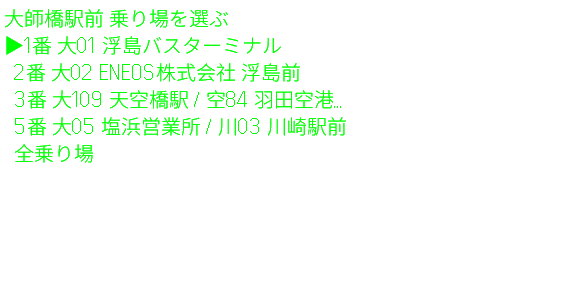
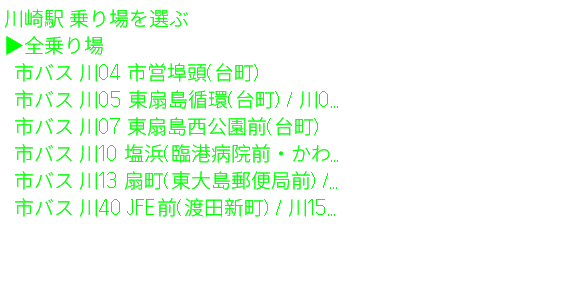
G2 0.2.0 審査用: スクリーンショット撮り直し・掲載文・ポリシー更新
- スクリーンショット 5 枚を 0.2.0 の画面で撮り直し（川崎駅・全乗り場、両社まとめ）
- docs/store-description.md: About（日英 1631 文字）・Tags・Category
- プライバシーポリシー: 0.2.0 は選んだバス停の番号を中継に送る（位置情報は送らない）
- 「データについて」: まとめたバス停で両社の時刻表の版を出す（8 文字で切ると片方しか出なかった）
- dev: ?lat=&lng= で現在地、?fresh=1 で再開しない（シミュレータでの撮影用）

diff --git a/app/src/main.ts b/app/src/main.ts
@@ -37,7 +37,7 @@ import {
 import { buildApproachScene, DEFAULT_APPROACH_LAYOUT, MODEL_LOOK_RIGHT_DEG, type ApproachScene } from '../../src/core/approach.js';
 import { Bitmap } from '../../src/core/bitmap.js';
 import { buildBoard, type BoardEntry } from '../../src/core/board.js';
-import { formatAge, formatCountdown, formatMeters } from '../../src/core/format.js';
+import { formatAge, formatCountdown, formatMeters, versionText } from '../../src/core/format.js';
 import type { LatLng } from '../../src/core/geodesy.js';
 import type { RtSnapshot } from '../../src/core/realtime.js';
 import { renderApproach, splitHalves } from '../../src/core/render.js';
@@ -243,7 +243,7 @@ function aboutText(): string {
     'データについて（タップで戻る）',
     '公共交通オープンデータセンター提供',
     source.agency,
-    `時刻表 ${source.feedVersion.slice(0, 8)}版 取得${source.fetchedDate}`,
+    `時刻表 ${versionText(source.feedVersion)}版 取得${source.fetchedDate}`,
     'データの正確性・完全性は保証されません',
     '道路は右60°に置いた模式図です',
     '問い合わせ:',
@@ -589,7 +589,15 @@ async function main(): Promise<void> {
     host = { get: (key) => bridge!.getLocalStorage(key), set: (key, value) => bridge!.setLocalStorage(key, value) };
   }
 
-  const resumed = await resume();
+  // ブラウザ・シミュレータには位置情報が無いので、?lat=&lng= で現在地を渡せる（G2 Sky View と同じ）。
+  // 審査用のスクリーンショットを、実際の利用場面（川崎駅の近く）で撮るため。
+  const params = new URLSearchParams(globalThis.location?.search ?? '');
+  const urlLat = Number(params.get('lat'));
+  const urlLng = Number(params.get('lng'));
+  const fromUrl = Number.isFinite(urlLat) && Number.isFinite(urlLng) && urlLat !== 0 && urlLng !== 0;
+  if (fromUrl) location = { lat: urlLat, lng: urlLng };
+
+  const resumed = params.get('fresh') === '1' ? false : await resume();
   if (resumed) {
     page = 'main';
     await poll(true);
@@ -598,11 +606,13 @@ async function main(): Promise<void> {
     const result = await bridge.createStartUpPageContainer(new CreateStartUpPageContainer(containersFor(page)));
     if (result !== StartUpPageCreateResult.success) console.warn('page create', StartUpPageCreateResult[result] ?? result);
     bridge.onEvenHubEvent((event) => void handleEvent(event));
-    try {
-      const fix = await bridge.getAppLocation({ accuracy: AppLocationAccuracy.High, timeoutMs: 10_000 });
-      if (fix) location = { lat: fix.latitude, lng: fix.longitude };
-    } catch (error) {
-      console.warn('location failed', error);
+    if (!fromUrl) {
+      try {
+        const fix = await bridge.getAppLocation({ accuracy: AppLocationAccuracy.High, timeoutMs: 10_000 });
+        if (fix) location = { lat: fix.latitude, lng: fix.longitude };
+      } catch (error) {
+        console.warn('location failed', error);
+      }
     }
   }
   await render();

diff --git a/test/core.test.ts b/test/core.test.ts
@@ -9,6 +9,7 @@ import { activeServices, clock, jstDay, upcomingDepartures } from '../src/core/s
 import type { StopData } from '../src/core/stopdata.js';
 import { platformChoices } from '../src/core/stops.js';
 import { fitText, INFO_MAX_LINES } from '../src/core/textfit.js';
+import { versionText } from '../src/core/format.js';
 
 const data = JSON.parse(readFileSync('data/stops/rinko/5010.json', 'utf8')) as StopData;
 const jst = (s: string) => new Date(`${s}+09:00`).getTime();
@@ -122,10 +123,15 @@ test('文字欄は 3 行まで', () => {
   assert.equal(fitText('1\n2\n3\n4').split('\n').length, 3);
 });
 
+test('時刻表の版: 1 社はそのまま、まとめたバス停は両社の月日', () => {
+  assert.equal(versionText('20260716_20261231'), '20260716');
+  assert.equal(versionText('20260701/20260716'), '7/1・7/16');
+});
+
 test('「データについて」の必須表示（問い合わせ先）が切れない', async () => {
   const { visualWidth, MAX_COLUMNS } = await import('../src/core/textfit.js');
   const lines = ['データについて（タップで戻る）', '公共交通オープンデータセンター提供', data.source.agency,
-    `時刻表 ${data.source.feedVersion.slice(0, 8)}版 取得${data.source.fetchedDate}`,
+    `時刻表 ${versionText('20260701/20260716')}版 取得${data.source.fetchedDate}`,
     'データの正確性・完全性は保証されません', '道路は右60°に置いた模式図です', '問い合わせ:', 'async.sync+kawasakibus@gmail.com'];
   assert.ok(lines.length <= 8);
   for (const line of lines) assert.ok(visualWidth(line) <= MAX_COLUMNS, line);

diff --git a/src/core/format.ts b/src/core/format.ts
@@ -18,3 +18,13 @@ export function formatAge(seconds: number): string {
   const s = Math.max(0, Math.round(seconds));
   return s < 90 ? `${s}秒前` : `${Math.round(s / 60)}分前`;
 }
+
+/**
+ * 時刻表の版。1 社なら「20260716」、両社をまとめたバス停（feedVersion が「20260701/20260716」）
+ * なら「7/1・7/16」。8 文字で切ると片方の事業者の版しか出ない（2026-10-03 のスクリーンショットで発見）。
+ */
+export function versionText(feedVersion: string): string {
+  const versions = feedVersion.split('/').map((v) => v.slice(0, 8));
+  if (versions.length === 1) return versions[0]!;
+  return versions.map((v) => `${Number(v.slice(4, 6))}/${Number(v.slice(6, 8))}`).join('・');
+}

diff --git a/docs/store-description.md b/docs/store-description.md
@@ -1,0 +1,69 @@
+# ストア掲載文（Even Hub ポータル → Edit description）
+
+## About（2000 文字以内）
+
+Even Hub の About は**日英 1 フィールド**で、合計 2000 文字まで（Tokyojihatsu の docs/store-description.md）。
+英語は対訳ではなく要点を絞った版。ODPT 開発者ガイドライン 3.1 が求める 3 点
+（提供元・無保証・問い合わせ先）は**両言語に残す**。文字数は下の「数え方」で確かめる。
+
+⚠ **審査中は Store listing を編集できない。** 提出前に正しくしておくこと。
+
+```
+スマートフォンを取り出さずに、バス停で次のバスまであと何分か、いまバスがどこまで来ているかを確認できます。川崎市バスと川崎鶴見臨港バスの全停留所に対応しています。
+
+■ 使い方
+1. 近くのバス停を選ぶ
+2. 乗り場を選ぶ（系統と行先が表示されます。「全乗り場」も選べます）
+3. 系統・行先・発車時刻と、発車までの残り時間が表示されます
+
+一度選べば記憶し、次回は起動するだけで始まります。バス停・乗り場はメニューから選び直せます。
+
+■ 接近中のバスを道路の上に表示
+画面上部に、バス停で道路を向いた向きから右へ60°見たときの道路を模式的に描き、接近中のバスを乗り場までの残り距離に応じて置きます。遠くのバスは奥に小さく、近づくと手前の乗り場へ降りてきます。テンプルのスワイプで向きを回して実際の道路に合わせられ、タップで次の便に切り替わります。実際の方位を示すものではありません。
+
+■ 表示の根拠
+「乗り場で待機中」「接近中」はバスの位置情報、「折返し推定」は到着するバスがそのまま折り返すと仮定した推定、「時刻表の予定」は時刻表だけにもとづく表示です。
+
+■ 両社が止まるバス停
+川崎駅など、川崎市バスと臨港バスが止まるバス停は1つにまとめ、両社の便を発車順に表示します。乗り場には「臨港 1番」「市バス」のように事業者を添えます。
+
+■ データについて
+時刻表とバスの位置情報は公共交通オープンデータセンターの提供です。データの正確性・完全性が保証されたものではありません。時刻表の版と取得日はアプリ内の「データについて」で確認できます。
+
+近くのバス停を出すために位置情報を使います。端末内だけで処理され、外部へ送信されません。
+
+本アプリが表示する情報について、バス事業者への直接のお問い合わせはご遠慮ください。下記までご連絡ください。
+
+---
+
+Bus Approach AR shows the next bus at your stop and where approaching buses are, on your Even G2. It covers every stop of Kawasaki City Bus and Kawasaki Tsurumi Rinko Bus. Pick a nearby stop and a platform; your choice is remembered.
+
+The upper band draws a schematic road as seen 60° to the right of facing the street, with each bus placed by its remaining distance. Swipe the temple to rotate it; tap for the next bus. It does not show true compass directions.
+
+Timetable and bus location data is provided by the Open Data Center for Public Transportation; accuracy and completeness are not guaranteed. Your location is used only to find nearby stops and never leaves the phone. Please do not contact bus operators about this app.
+
+Contact: async.sync+kawasakibus@gmail.com
+Privacy policy: https://iinuma.github.io/bus-approach-ar/privacy-policy
+```
+
+### 数え方
+
+```bash
+awk '/^```$/{f=!f; next} f' docs/store-description.md | sed -n '1,/^Privacy policy/p' | python3 -c "import sys; print(len(sys.stdin.read().rstrip('\n')))"
+```
+
+## Tags（5 個まで）
+
+```
+バス, 川崎, 時刻表, bus, timetable
+```
+
+Even Hub は全世界に公開されるので、日本語と英語を混ぜる（Tokyojihatsu と同じ）。
+
+## Category
+
+ポータルの選択肢から選ぶ。交通・移動系が無ければ Utility / Tools 相当（Tokyojihatsu と同じ）。
+
+## スクリーンショット
+
+`assets/screenshots/01〜05`（2026-10-03 撮影、川崎駅・全乗り場）。詳細は assets/screenshots/README.md。

diff --git a/docs/privacy-policy.md b/docs/privacy-policy.md
@@ -1,6 +1,6 @@
 # バス接近AR プライバシーポリシー
 
-最終更新日: 2026-09-27
+最終更新日: 2026-10-03
 
 バス接近AR（以下「本アプリ」）は、Even Realities G2 向けに、バス停の次の便の系統・行先・
 発車までの残り時間と、接近してくるバスの位置を表示するアプリです。本ポリシーは、本アプリが
@@ -20,14 +20,15 @@
 
 ### ネットワーク（network）
 
-**用途**: バスの現在位置と運行情報を取得するためにのみ使用します。
+**用途**: 選んだバス停の時刻表と、バスの現在位置・運行情報を取得するためにのみ使用します。
 
 **接続先**: 開発者が運営する中継サーバー
 `https://ibvjlpkr6o3wkodz7izo6ctdhe0yajkz.lambda-url.ap-northeast-1.on.aws`
 （Amazon Web Services、東京リージョン）にのみ接続します。中継サーバーは公共交通オープン
-データセンター（ODPT）からバスの運行情報を取得して返します。
+データセンター（ODPT）のデータから作った時刻表と、ODPT から取得したバスの運行情報を返します。
 
-**送信される内容**: 「どの事業者の運行情報が必要か」を示す識別子だけです。
+**送信される内容**: 選んだバス停を示す識別子（停留所の番号）だけです。中継サーバーはそのバス停の
+時刻表と、そのバス停に関係するバスの運行情報を返します。
 **位置情報や、あなたを特定できる情報は送信されません。**
 
 ## 端末内に保存される情報

diff --git a/assets/screenshots/README.md b/assets/screenshots/README.md
@@ -19,8 +19,14 @@ magick 03-approach.png -background black -alpha remove -alpha off view.png
 
 | ファイル | 画面 | 撮影 |
 | --- | --- | --- |
-| 01-stops.png | バス停を選ぶ | 2026-09-27 |
-| 02-platforms.png | 乗り場を選ぶ | 2026-09-27 |
-| 03-approach.png | 接近ビュー（全乗り場, 日曜 07:3x の実データ） | 2026-09-27 |
-| 04-menu.png | コンテキストメニュー | 2026-09-27 |
-| 05-about.png | データについて（ODPT の必須表示） | 2026-09-27 |
+| 01-stops.png | バス停を選ぶ（川崎駅の近く。両社まとめ「市バス・臨港」） | 2026-10-03 |
+| 02-platforms.png | 乗り場を選ぶ（全乗り場が先頭、事業者つき） | 2026-10-03 |
+| 03-approach.png | 接近ビュー（川崎駅・全乗り場、土曜 08:14 の実データ） | 2026-10-03 |
+| 04-menu.png | コンテキストメニュー | 2026-10-03 |
+| 05-about.png | データについて（ODPT の必須表示、両社の時刻表の版） | 2026-10-03 |
+
+シミュレータには位置情報が無いので、URL で現在地を渡す。前回の選択から再開させないときは `fresh=1`:
+
+```bash
+npx evenhub-simulator "http://localhost:5179/?lat=35.5306&lng=139.6986&fresh=1" --automation-port 9898
+```
